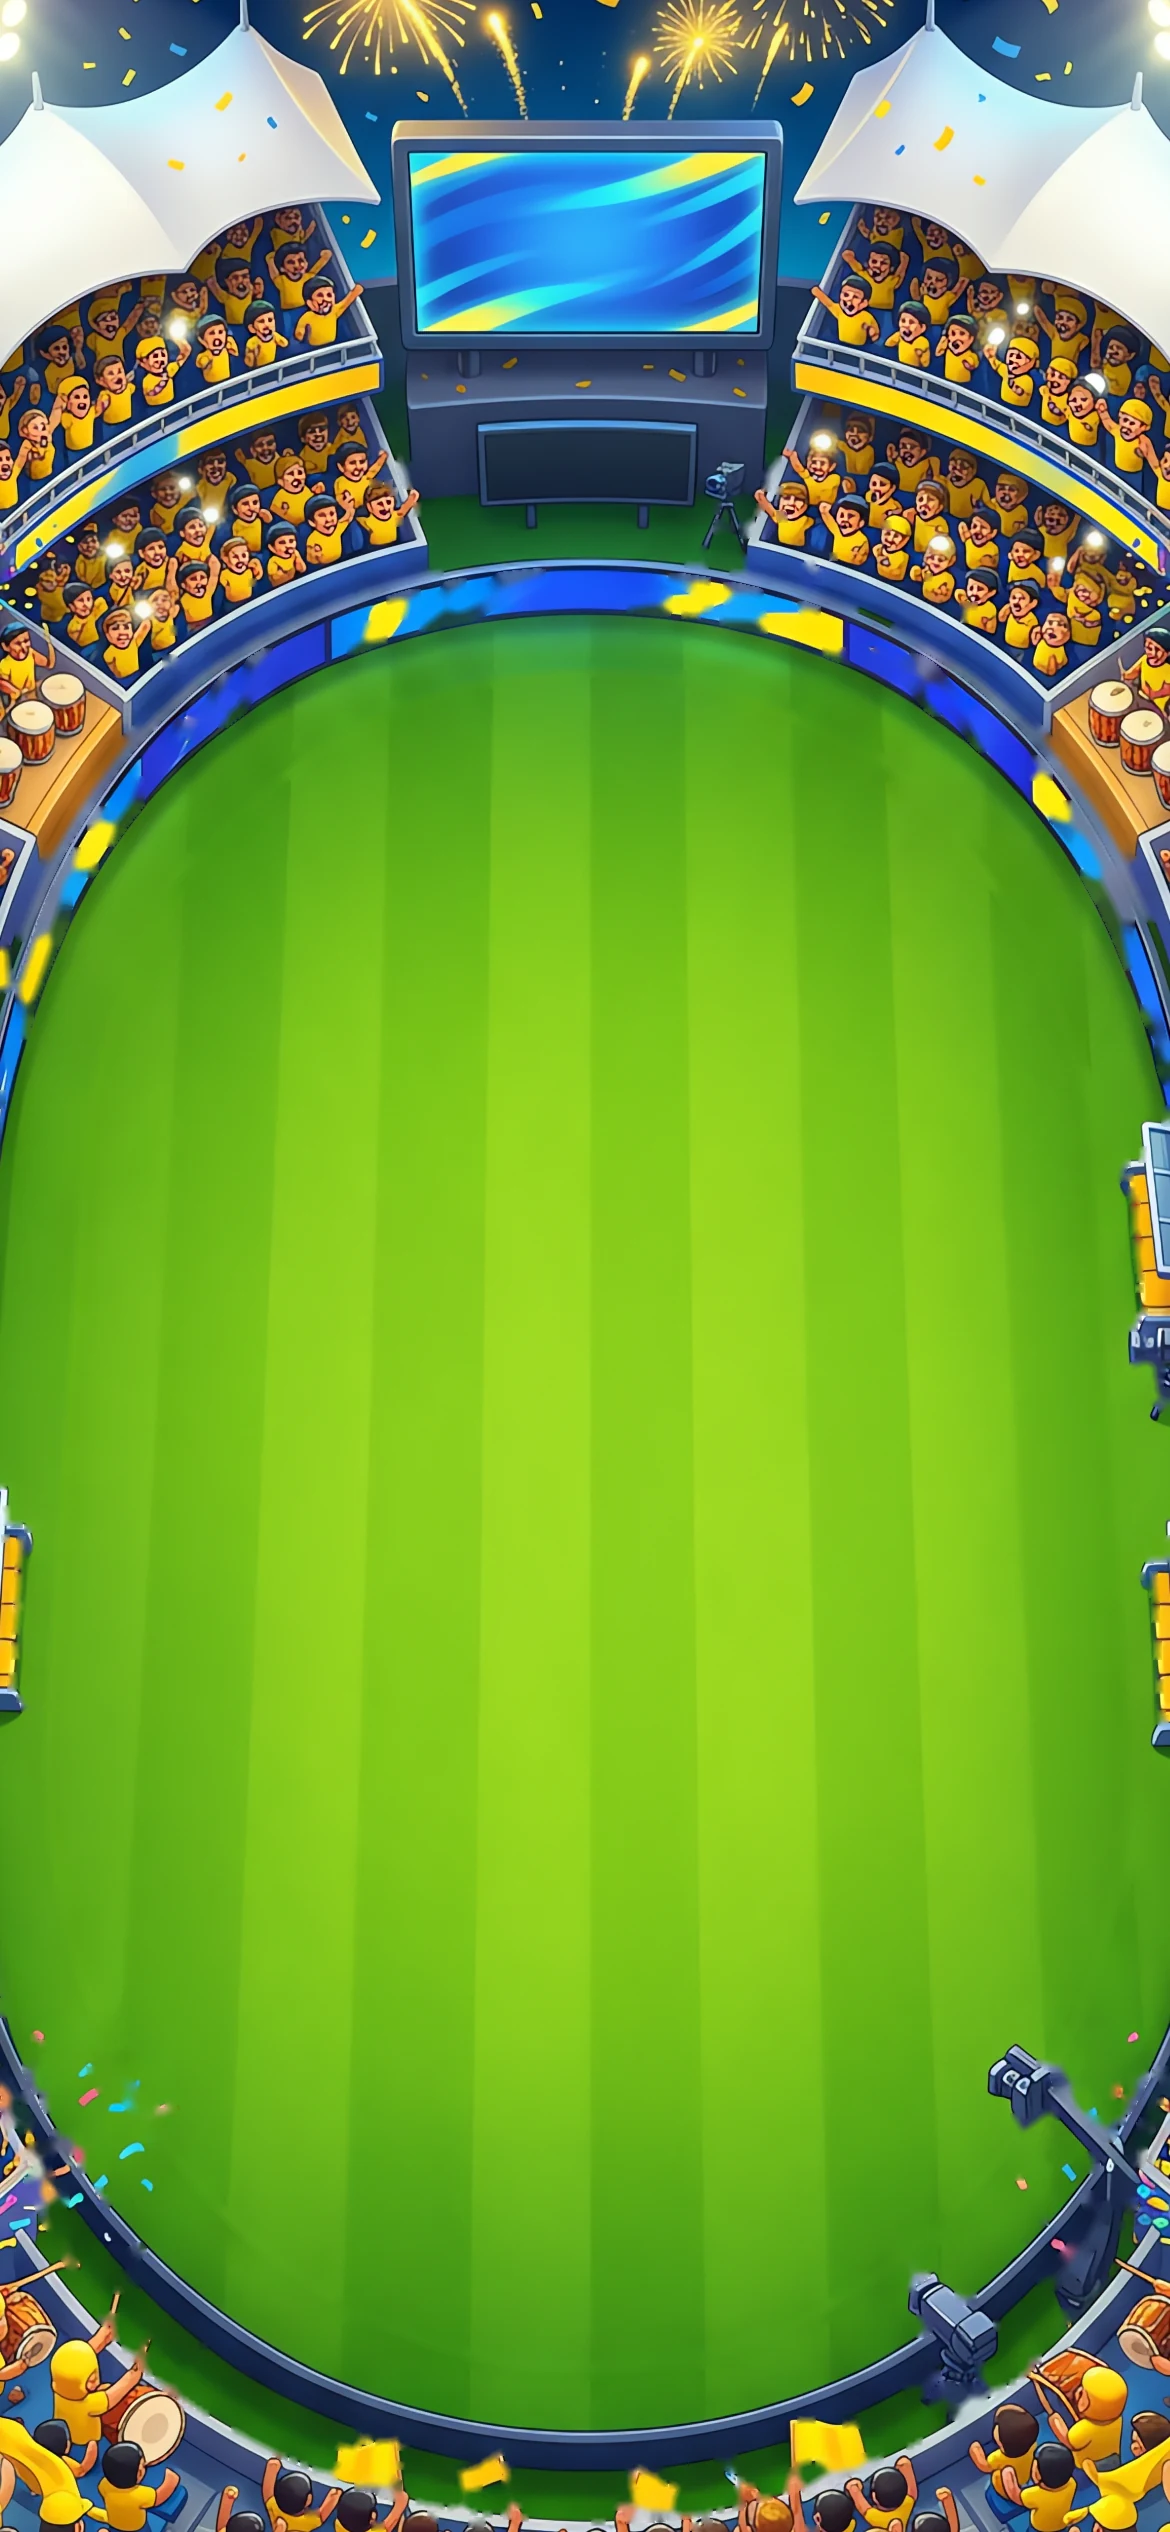
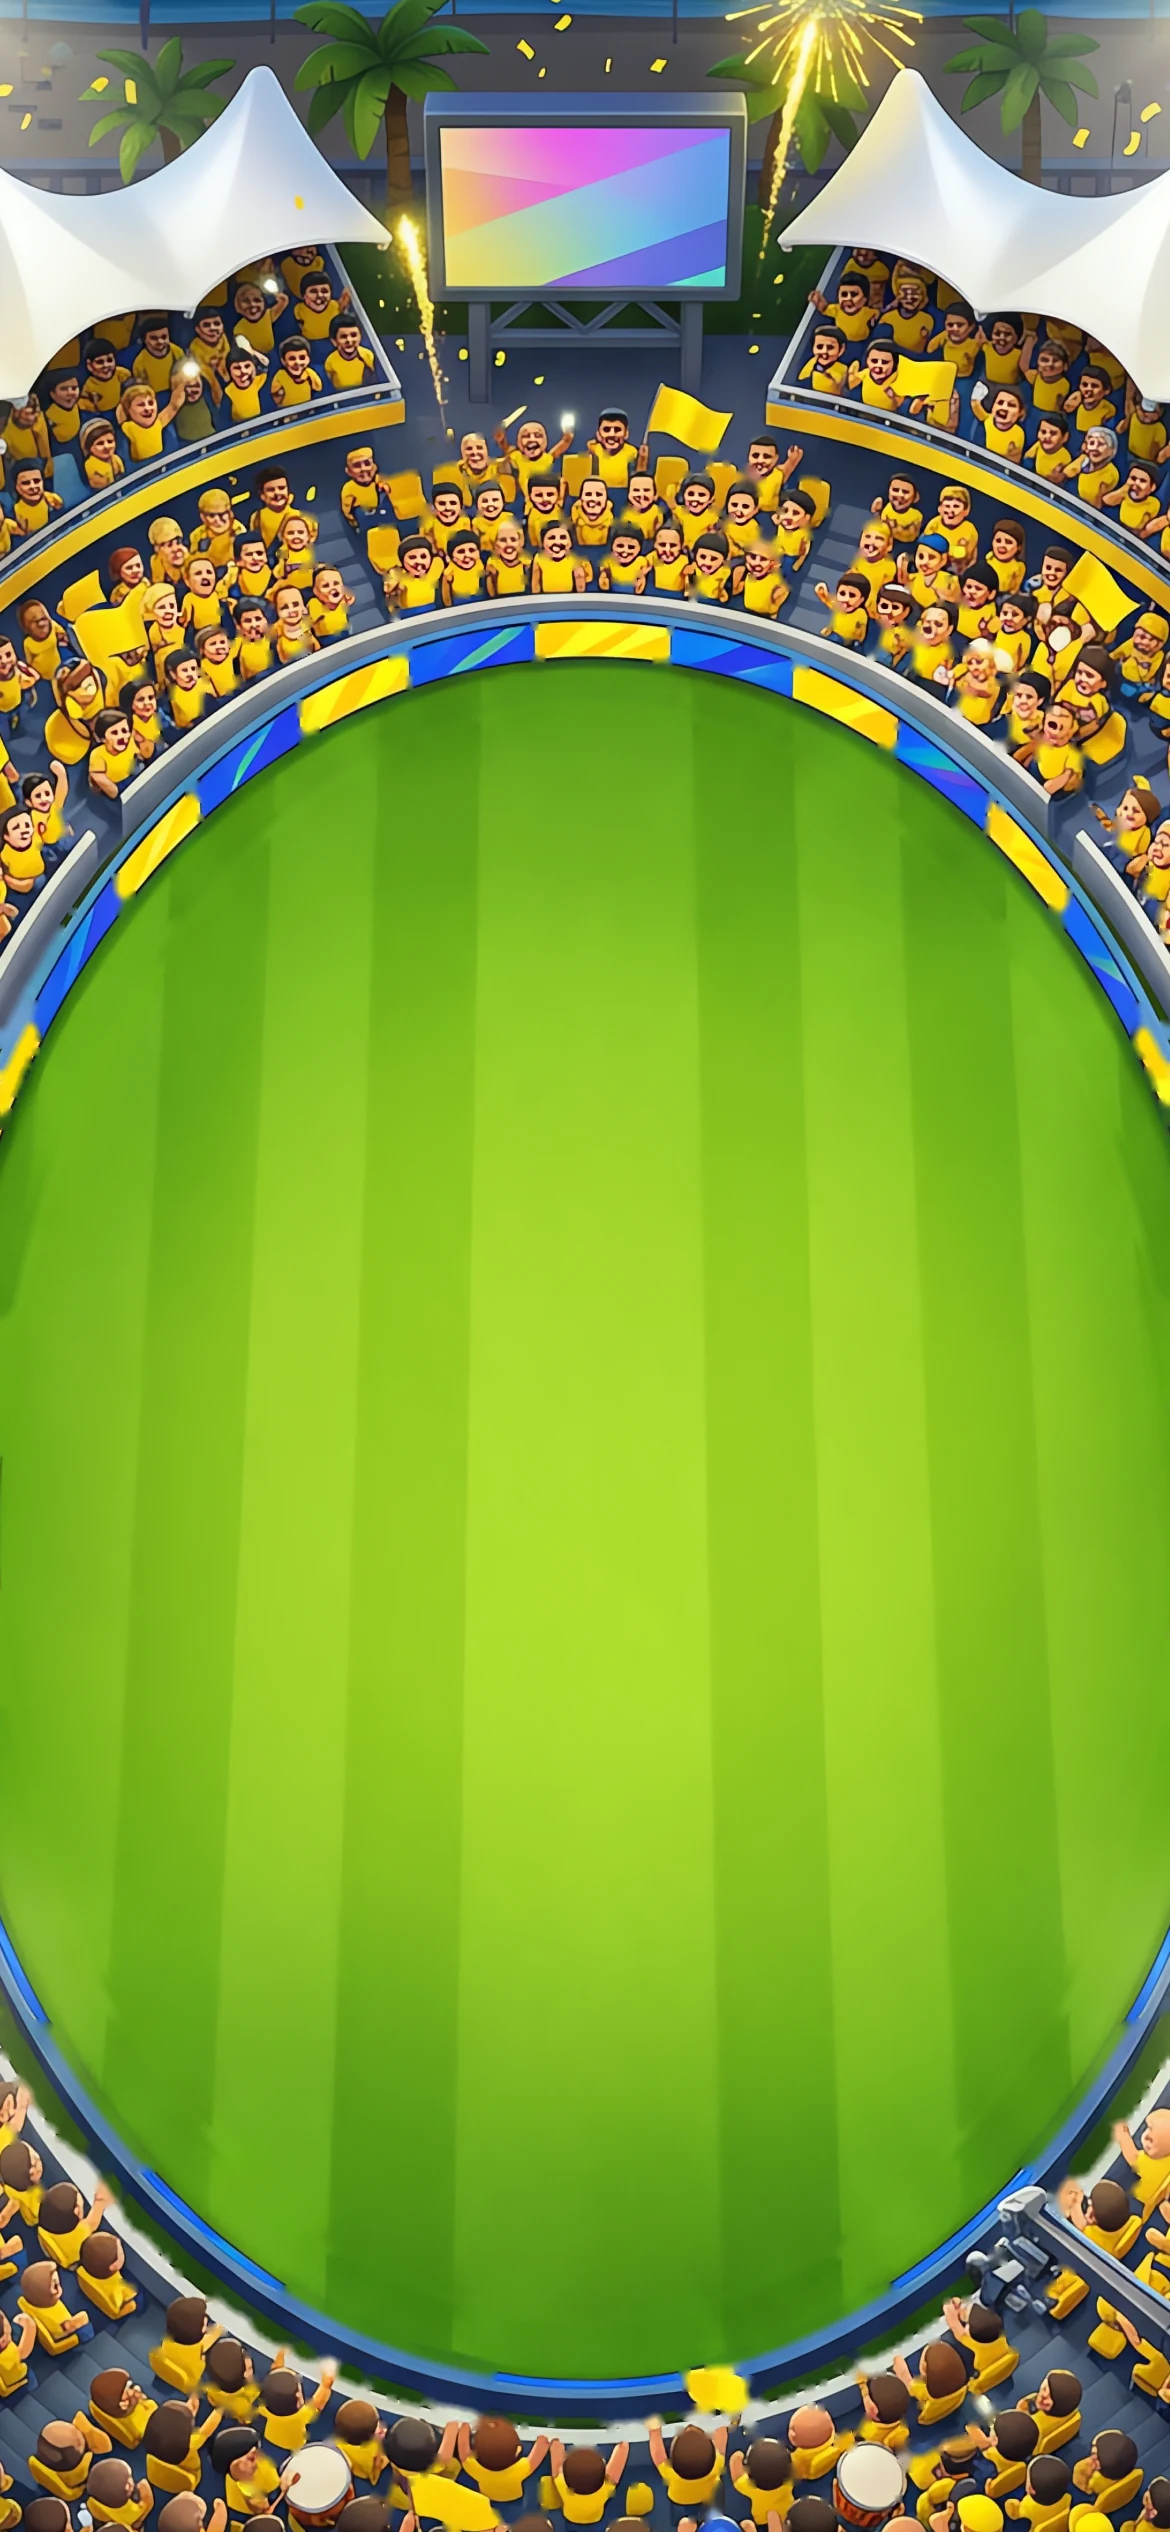
Chennai v3 from the spec prompt: stadium tight to the boundary; tight-stadium rule in prompts; max-stretch fit option
Claude-Session: https://claude.ai/code/session_01NNR8prbH2qY6oyeAaZPDjU

diff --git a/art/grounds/layout/layout_from_code.py b/art/grounds/layout/layout_from_code.py
@@ -127,8 +127,10 @@ No text, letters, numbers or logos anywhere unless asked.
 
 ## 1. Ground — surroundings, themed field, boundary rope
 ```
-Portrait background, exactly {W}x{H} px. It MUST correctly and accurately match the coded game layout below. Positions are exact, not suggestions. % of width (W) / height (H), pixels in brackets.
+Portrait background, exactly {W}x{H} px. It MUST correctly and accurately match the coded game layout below. Positions are exact, not suggestions. None of these measurements or labels are ever written in the image. % of width (W) / height (H), pixels in brackets.
 FIELD: one TALL oval playing surface — themed, not always grass [e.g. raked beach sand, ice, ship's deck, turf] — plain and calm so a small ball shows clearly. The image comes out 9:16, so give the oval in those terms: its height is 1.58 times its width; centre 50% W / {pct(fo['cy'])} H; left edge 12% W, right edge 88% W, top edge {pct(fo['top'])} H, bottom edge {pct(fo['bottom'])} H. The strips outside 12% and 88% W get cropped, so keep only scenery there.
+It is a true smooth ellipse, not a racetrack with straight sides.
+TIGHT STADIUM: the stadium starts right at the field edge. Only a thin ring of boards (or the theme's equivalent) separates the field from the crowd and scenery: no wide band of bare outfield, track, sand or empty ground.
 The field edge is a clean crisp line. NO rope, NO markers, NO inner ring, NO lines on the field: the game draws the themed rope, boundary markers and 30-yard ring markers from the props sheet, exactly on the coded oval.
 EMPTY: no pitch, stumps, players, umpire, ball or text on the field.
 SURROUNDINGS: busy, fun and cool — packed with life, characters and detail, edge to edge and top to bottom, OUTSIDE the oval only. Real-world themes (e.g. an IPL ground) should look like the real thing, in the home team's colours. No empty bands at the top or bottom.

diff --git a/art/grounds/layout/align_plate.py b/art/grounds/layout/align_plate.py
@@ -71,6 +71,8 @@ print(f'painted oval: centre ({cx:.0f},{cy:.0f}) radii ({rx:.0f},{ry:.0f}) of {w
 tcx, tcy, trx, try_ = W * 0.5, H * fo['cy'], W * fo['rx'], H * fo['ry']
 sx = trx / rx                        # uniform x scale
 sy_mid = try_ / ry                   # oval band y scale
+if '--max-stretch' in sys.argv and sy_mid / sx > arg('--max-stretch', 1.08):
+    sx = sy_mid / arg('--max-stretch', 1.08)   # painted field wider than ours: the extra lies beyond the rope at the sides
 top_s, bot_s = cy - ry, cy + ry      # source rope top / bottom
 top_t, bot_t = tcy - try_, tcy + try_
 # y map target -> source (inverse), piecewise: above the oval use sx, inside sy_mid, below sx

diff --git a/art/ui/HANDOVER.md b/art/ui/HANDOVER.md
@@ -15,6 +15,7 @@ Every ground design follows the game's layout EXACTLY, always: field oval (centr
 - Pilots (Oct 28): `pirate_cove` (sand field) and `t20_night` (Mumbai-style IPL ground, blue & gold) — preview only via `?scene=` (`PREVIEW_SCENES`). Plates: no rope/ring painted; `align_plate.py` fits the field edge (axis extents; `--edge-white` for a painted boundary line, `--clear-inner` removes painted markings) to the coded oval. Parts cut with `cut_sheet.py`, served from `assets/themes/<theme>/`. Code: `THEME_ART` registry → `drawThemedBoundary` (tiled rope + flags + ring markers), `drawThemedPitch` (creases on PITCH_TOP/BOTTOM), `drawThemedStumps`, `drawThemedBall`, `drawThemedFielder` (5 views + mirror, faces batter, faces run direction when chasing), `drawThemedHud` (THEMED_HUD + sliced board + painted digits; sets `_pauseSpot`), painted pop-up words via THEMED_WORDS. Joe's notes: stadiums must be busy/fun/cool; IPL grounds like the real thing in team colours; not all fields grass. Still default: batter, bowler, keeper art, umpire, flying stumps.
 - No stretching (Joe, Oct 28): scenery is only ever scaled uniformly; the field surface is cut in exactly on the coded oval (`align_plate.py --ellipse … --radial 1.8 --cut --outer-scale ~0.9`) with a soft contact shadow under the rope. The plain field surface can stretch unseen; stands, people and props never do.
 - Chennai (`chennai_night`, Oct 28) — best method so far: prompt the field as a very tall oval ("rugby ball on end, twice as tall as wide" → came out 1.5×), keep the painted boards/white line (no cut), Real-ESRGAN 4× (`tools/upscale4x.py`; weights from the Real-ESRGAN release, converted with `esrgan_to_onnx.py`), then `align_plate.py --ellipse` on the painted white line → only 1.06× vertical, invisible. Shares the IPL HUD/props/words; fielders recoloured yellow. Weave image-to-image with a layout guide (`assets/themes/guide_9x16.png`) would be exact, but costs Weave credits — Joe declined for now.
+- Joe (Oct 28): one generation per request, straight from the spec prompt (no extra off-spec variants). Stadium tight to the boundary: only a thin ring of boards between field and crowd (now in PROMPTS.md). Fit: `align_plate.py --ellipse <painted grass edge> --max-stretch 1.06` (any extra painted width lies beyond the rope at the sides).
 - Sharing: Joe is open to leagues sharing a theme's players/HUD/props/words (then a new ground = 1 background). **Flag every chance to share as we go.**
 
 ## The screens, in order

diff --git a/art/grounds/layout/PROMPTS.md b/art/grounds/layout/PROMPTS.md
@@ -16,8 +16,10 @@ No text, letters, numbers or logos anywhere unless asked.
 
 ## 1. Ground — surroundings, themed field, boundary rope
 ```
-Portrait background, exactly 1170x2532 px. It MUST correctly and accurately match the coded game layout below. Positions are exact, not suggestions. % of width (W) / height (H), pixels in brackets.
+Portrait background, exactly 1170x2532 px. It MUST correctly and accurately match the coded game layout below. Positions are exact, not suggestions. None of these measurements or labels are ever written in the image. % of width (W) / height (H), pixels in brackets.
 FIELD: one TALL oval playing surface — themed, not always grass [e.g. raked beach sand, ice, ship's deck, turf] — plain and calm so a small ball shows clearly. The image comes out 9:16, so give the oval in those terms: its height is 1.58 times its width; centre 50% W / 60.0% H; left edge 12% W, right edge 88% W, top edge 26.5% H, bottom edge 93.5% H. The strips outside 12% and 88% W get cropped, so keep only scenery there.
+It is a true smooth ellipse, not a racetrack with straight sides.
+TIGHT STADIUM: the stadium starts right at the field edge. Only a thin ring of boards (or the theme's equivalent) separates the field from the crowd and scenery: no wide band of bare outfield, track, sand or empty ground.
 The field edge is a clean crisp line. NO rope, NO markers, NO inner ring, NO lines on the field: the game draws the themed rope, boundary markers and 30-yard ring markers from the props sheet, exactly on the coded oval.
 EMPTY: no pitch, stumps, players, umpire, ball or text on the field.
 SURROUNDINGS: busy, fun and cool — packed with life, characters and detail, edge to edge and top to bottom, OUTSIDE the oval only. Real-world themes (e.g. an IPL ground) should look like the real thing, in the home team's colours. No empty bands at the top or bottom.
